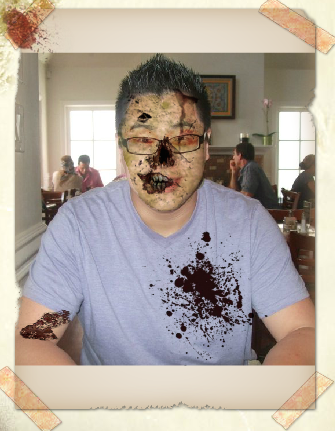
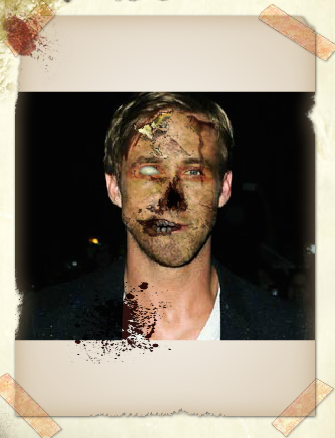
added on to intro

diff --git a/index.html b/index.html
@@ -17,7 +17,7 @@
 
     <div id="zombie1">
       <img src="images/zombie1.png" class="zombie-pic">
-        <button>Pick Me!</button>
+        <button id="fran-zombie">Pick Me</button>
         <br>
         <br>
         <p class="zombie-desc">This zombie used to be a regular student before she got bit. She used to love eating delicious food, but all she wants now is some human brains to eat. Help her get back to the lab to change her back! Her strength is average, but her life bar decreases slower than most zombies.</p>
@@ -40,10 +40,10 @@
 
     <div id="zombie2">
       <img src="images/zombie2.png" class="zombie-pic">
-        <button>Pick Me!</button>
+        <button id="ryan-zombie">Pick Me</button>
         <br>
         <br>
-        <p class="zombie-desc">This guy used to be a military man before he got bit. Now his only joy in "life" is slurping fresh brains out of human heads. Help him get his non-brain-slurping-life back by taking him to the lab. His strength is above average, but his life bar decreases a bit faster and needs feeding more often.</p>
+        <p class="zombie-desc">This guy used to be an actor before he got bit. Now his only joy in "life" is slurping fresh brains out of human heads. Help him get his non-brain-slurping-life back by taking him to the lab. His strength is above average, but his life bar decreases a bit faster and needs feeding more often.</p>
     </div>
 
   </div>

diff --git a/js/javascript.js b/js/javascript.js
@@ -10,8 +10,16 @@ $(function(){
   $("#intro").hide();
 
   $("#begin").click(function() {
-      $(this).hide();
-      $("#intro").show();
+    $(this).hide();
+    $("#intro").show();
   });
+
+  $("#fran-zombie").click(function() {
+    $("#intro").hide('slow');
+  })
+
+  $("#ryan-zombie").click(function() {
+    $("#intro").hide('slow');
+  })
 
 });
